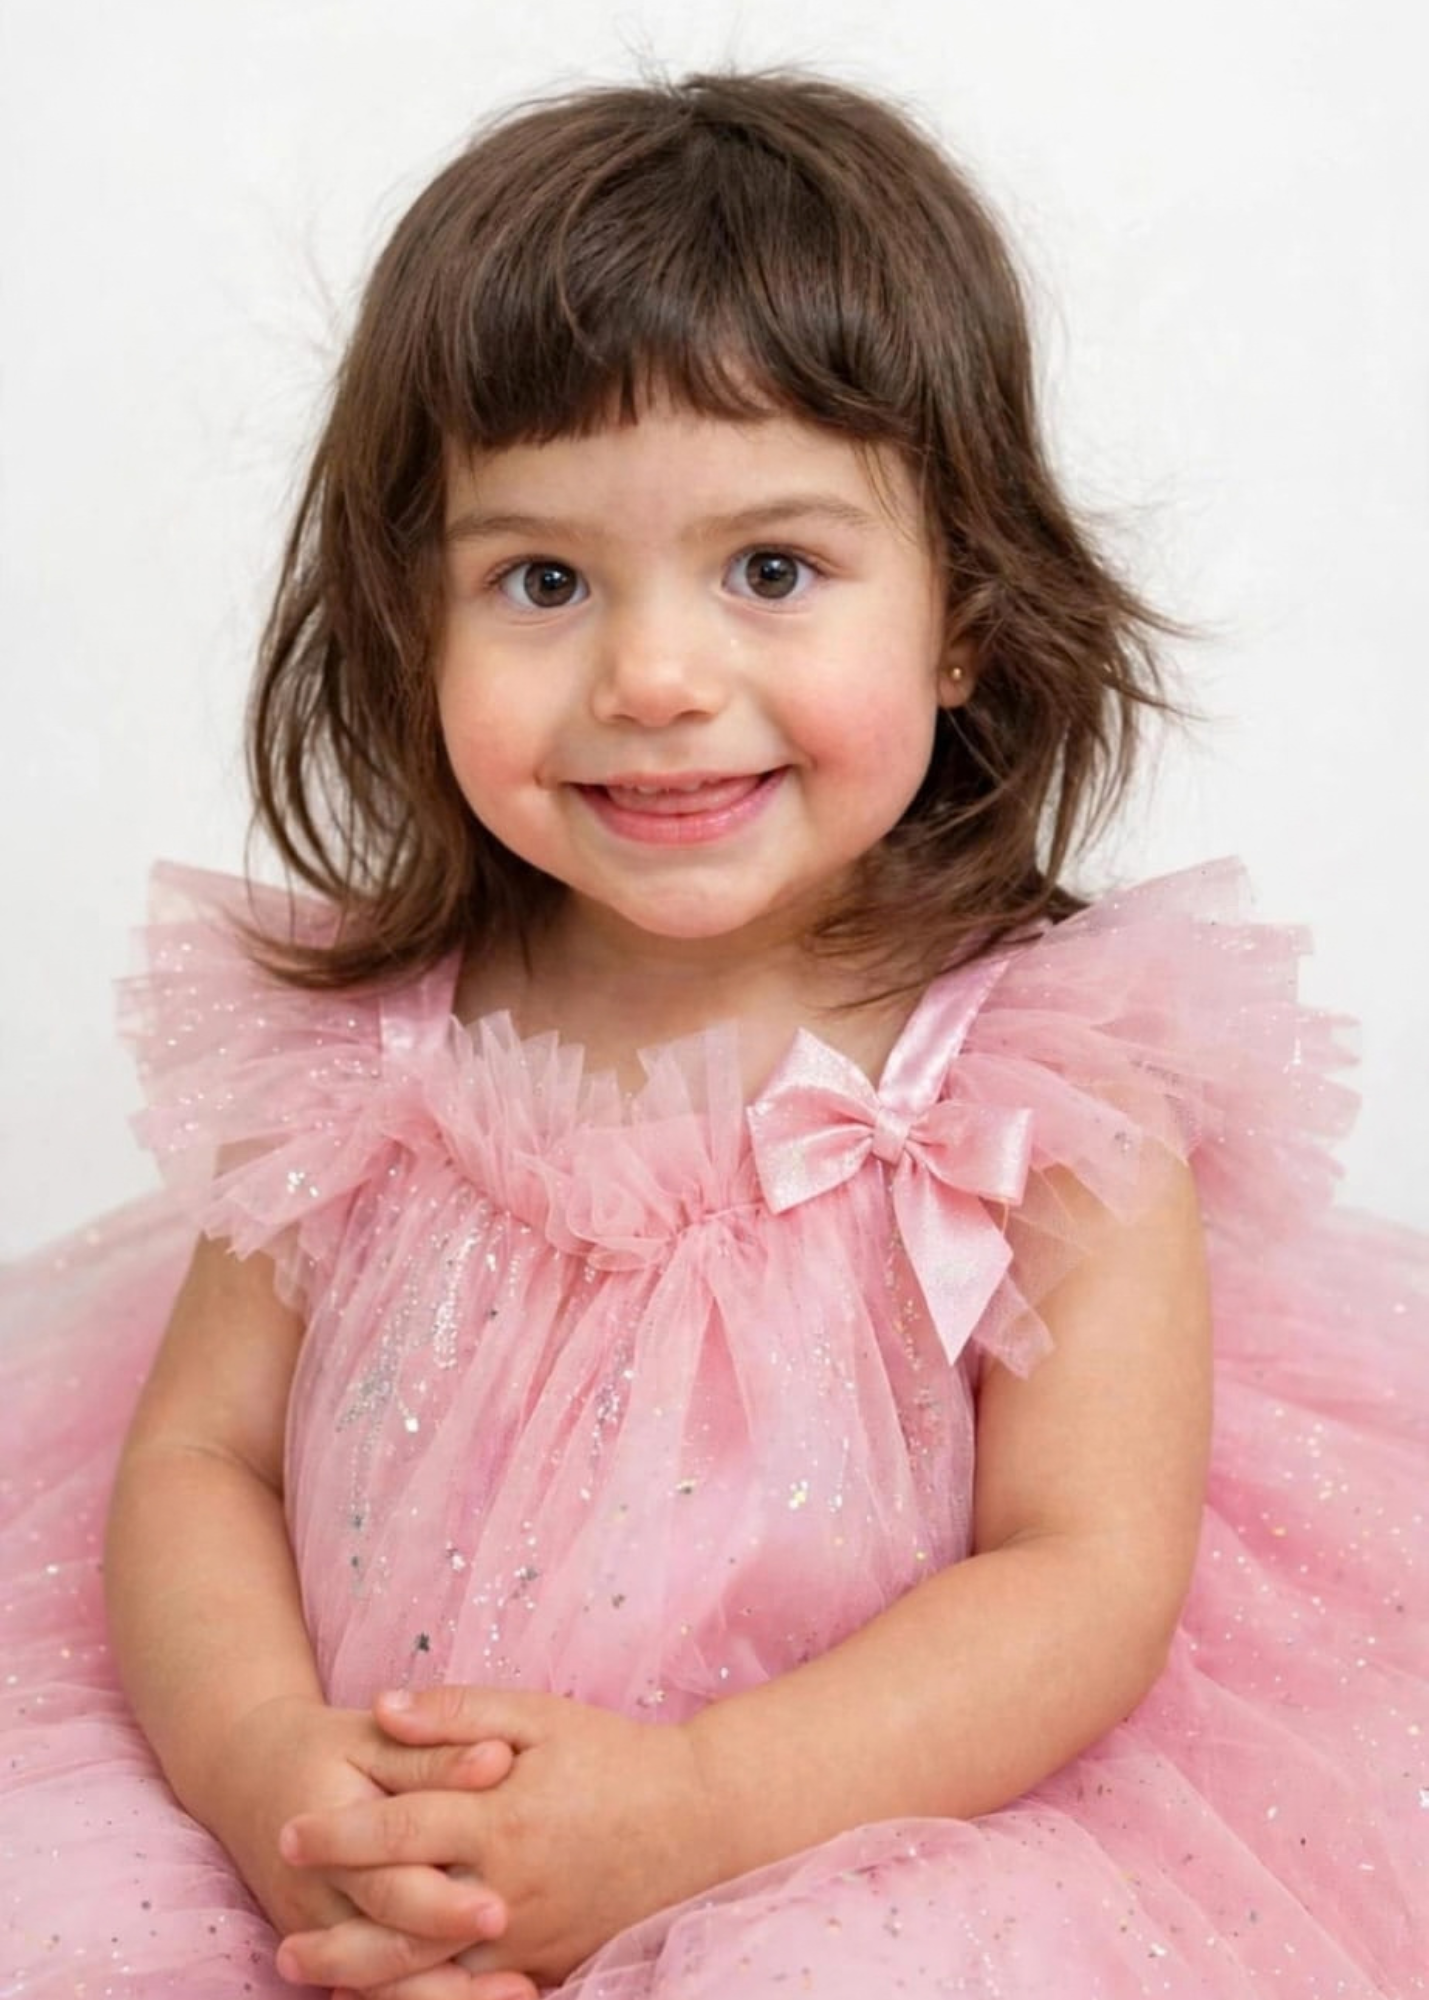
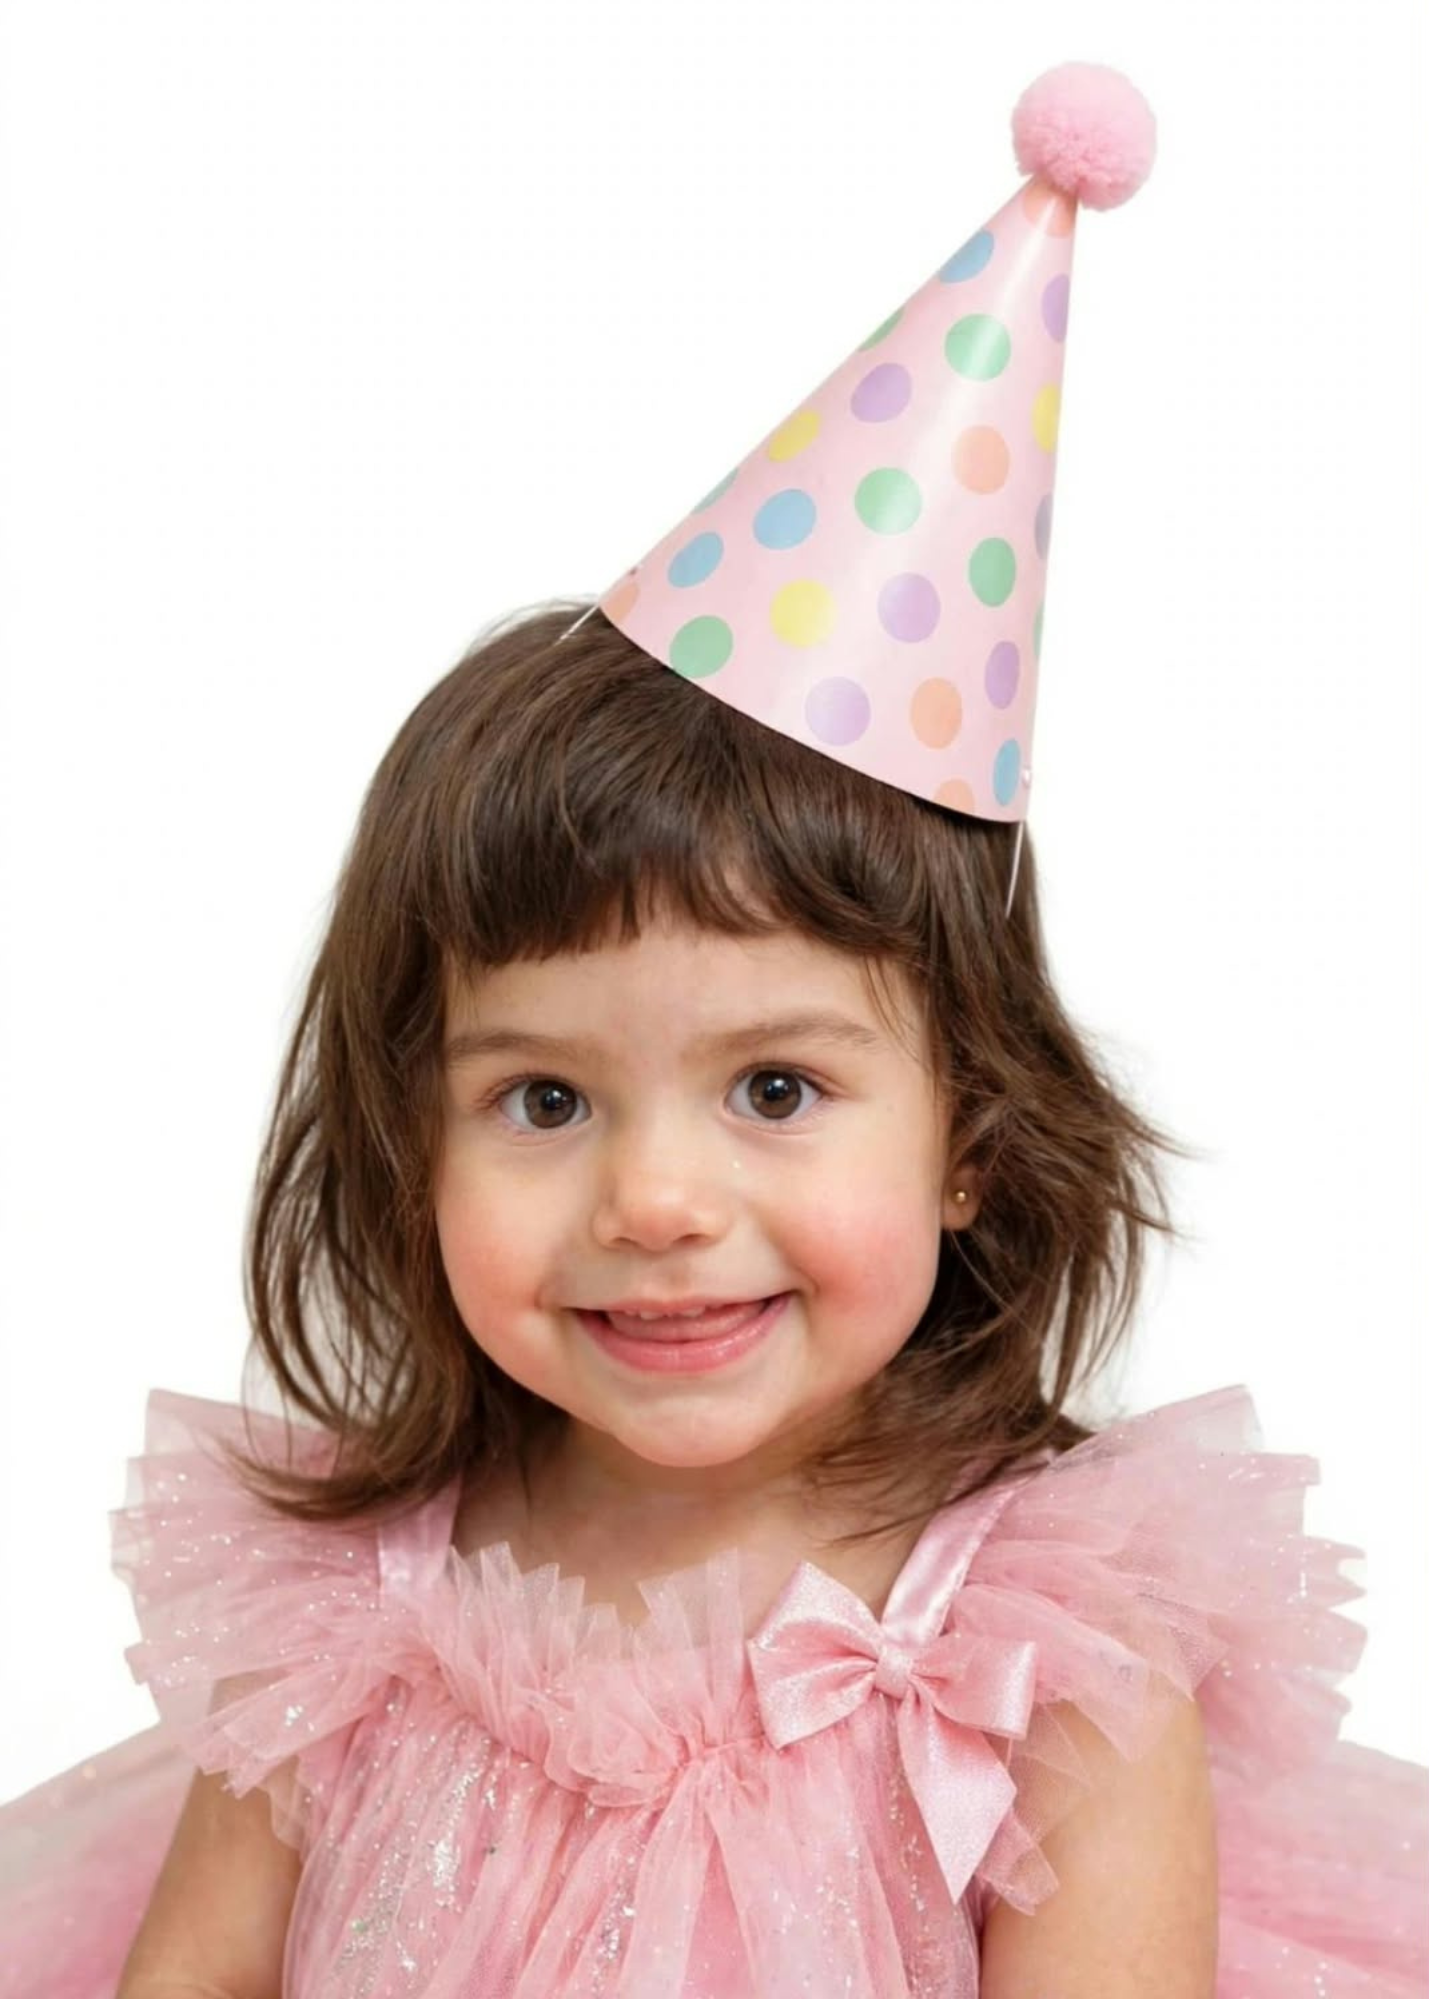
A
A

diff --git a/index.html b/index.html
@@ -58,10 +58,10 @@
         </div>
   </main>
   <div class="galeria">
-    <img class="f1" src="./img/A.png" alt="foto">
-    <img class="f2" src="./img/A.png" alt="foto">
-    <img class="f3" src="./img/A.png" alt="foto">
-    <img class="f4" src="./img/A.png" alt="foto">
+    <img class="f1" src="./img/B.png" alt="foto">
+    <img class="f2" src="./img/B.png" alt="foto">
+    <img class="f3" src="./img/B.png" alt="foto">
+    <img class="f4" src="./img/B.png" alt="foto">
   </div>
 <div class="quote">
   <p>NUESTRO PEDACITO DE CIELO CUMPLE 2 AÑOS Y TE ESPERAMOS PARA FESTEJARLO JUNTOS ENTRE NUBES, ARCOÍRIS Y ESTRELLITAS.</p>
